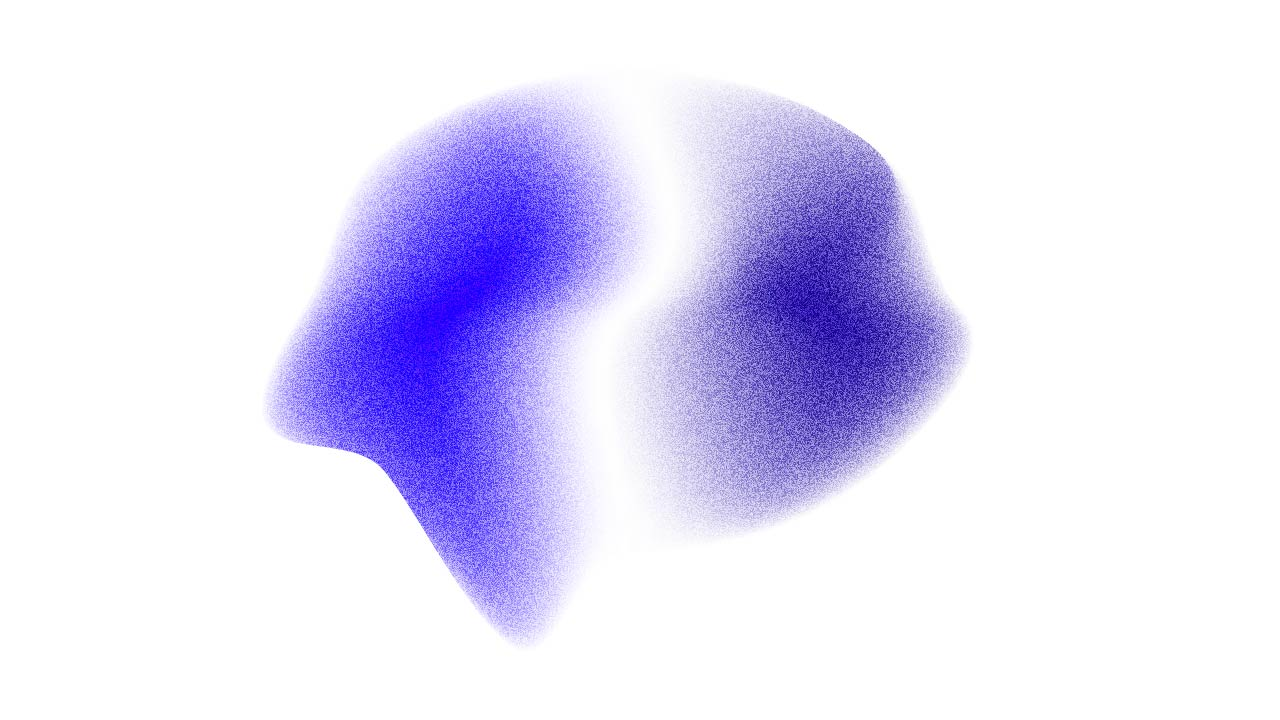
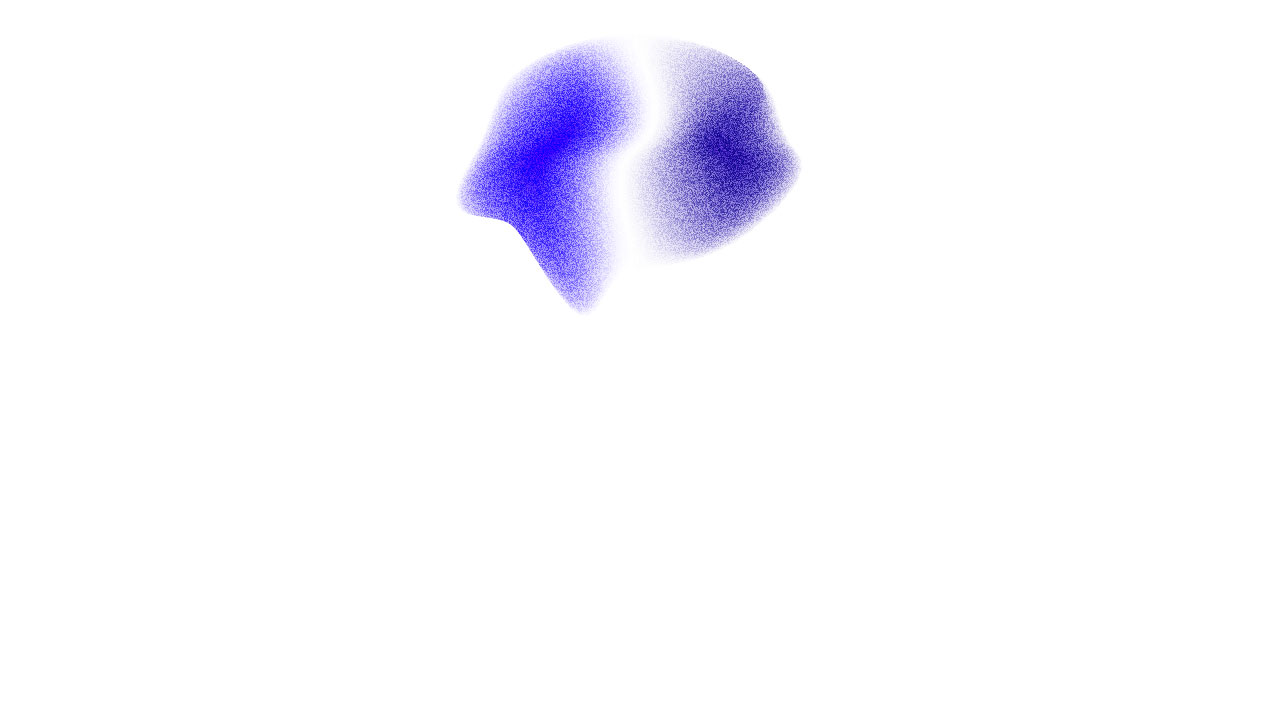
Create about.html - Add navbar and main image section - Modify some classes - Improve about background image

Changed region(s): [[0.1875, 0.0611, 0.7812, 0.8861]]

diff --git a/about.html b/about.html
@@ -1,0 +1,83 @@
+<!DOCTYPE html>
+<html lang="en">
+  <head>
+    <meta charset="UTF-8" />
+    <meta name="viewport" content="width=device-width, initial-scale=1.0" />
+
+    <link
+      href="https://cdn.jsdelivr.net/npm/bootstrap@5.3.3/dist/css/bootstrap.min.css"
+      rel="stylesheet"
+      integrity="sha384-QWTKZyjpPEjISv5WaRU9OFeRpok6YctnYmDr5pNlyT2bRjXh0JMhjY6hW+ALEwIH"
+      crossorigin="anonymous"
+    />
+
+    <link rel="preconnect" href="https://fonts.googleapis.com" />
+    <link rel="preconnect" href="https://fonts.gstatic.com" crossorigin />
+    <link href="https://fonts.googleapis.com/css2?family=Public+Sans:ital,wght@0,100..900;1,100..900&display=swap" rel="stylesheet" />
+    <link href="https://db.onlinewebfonts.com/c/0ec65ee35066f8dc1678fa73412ce9b8?family=Ogg+Text+TRIAL" rel="stylesheet" />
+    <link href="https://db.onlinewebfonts.com/c/2596224269750e00c3ad5356299a3b9f?family=Ogg+Roman" rel="stylesheet" />
+    <link rel="stylesheet" href="css/style.css" />
+
+    <script
+      src="https://cdn.jsdelivr.net/npm/bootstrap@5.3.3/dist/js/bootstrap.bundle.min.js"
+      integrity="sha384-YvpcrYf0tY3lHB60NNkmXc5s9fDVZLESaAA55NDzOxhy9GkcIdslK1eN7N6jIeHz"
+      crossorigin="anonymous"
+    ></script>
+
+    <link rel="icon" type="image/jpg" href="/images/favicon.png" />
+
+    <title>About me - Flora Persichini - Graphic & UX/UI Designer · Front-end Developer</title>
+  </head>
+  <body class="about-bg">
+    <nav class="navbar navbar-expand-lg navbar-light bg-white fixed-top fw-bold">
+      <div class="container-fluid">
+        <a class="navbar-brand ms-1 me-5" href="#">
+          <img src="images/flora logo-01.png" alt="flora-logo" class="flora-logo img-fluid" /> Flora Persichini</a
+        >
+        <button
+          class="navbar-toggler"
+          type="button"
+          data-bs-toggle="collapse"
+          data-bs-target="#navbarNavDropdown"
+          aria-controls="navbarNavDropdown"
+          aria-expanded="false"
+          aria-label="Toggle navigation"
+        >
+          <span class="navbar-toggler-icon"></span>
+        </button>
+        <div class="collapse navbar-collapse" id="navbarNavDropdown">
+          <ul class="navbar-nav ms-5">
+            <li class="nav-item me-3">
+              <a class="nav-link active text-decoration-underline" aria-current="page" href="/">HOME</a>
+            </li>
+            <li class="nav-item me-3">
+              <a class="nav-link" href="/about.html">ABOUT</a>
+            </li>
+            <li class="nav-item me-3">
+              <a class="nav-link" href="/contact.html">CONTACT</a>
+            </li>
+            <li class="nav-item dropdown me-5">
+              <a class="nav-link dropdown-toggle" href="#" id="navbarDropdownMenuLink" role="button" data-bs-toggle="dropdown" aria-expanded="false">
+                WORK
+              </a>
+              <ul class="dropdown-menu" aria-labelledby="navbarDropdownMenuLink">
+                <li><a class="dropdown-item" href="#">UX/UI</a></li>
+                <li><a class="dropdown-item" href="#">Development</a></li>
+                <li><a class="dropdown-item" href="#">Photography</a></li>
+              </ul>
+            </li>
+          </ul>
+        </div>
+      </div>
+    </nav>
+
+    <main>
+      <div class="header-about container">
+        <img src="images/flora-thumbnail-bw.png" alt="Flora Persichini Picture" class="flora-image-about" />
+        <div class="line-1-about"></div>
+        <h1 class="title-hi sans-serif-font text-center">About me.</h1>
+        <div class="line-2-about"></div>
+      </div>
+    </main>
+  </body>
+</html>

diff --git a/css/style.css b/css/style.css
@@ -13,14 +13,21 @@
   font-weight: 100;
 }
 
-body {
+.index-bg {
   background-image: url("/images/background.jpeg");
   background-size: cover;
-  background-position: center;
+  background-position: center 112px;
   background-repeat: no-repeat;
+  background-attachment: fixed;
   height: 100vh;
-  margin: 0;
-  background-position: 0 112px;
+}
+
+.about-bg {
+  background-image: url("/images/backgound-gradient-about.jpg");
+  background-position: center 100px;
+  background-repeat: no-repeat;
+  background-attachment: fixed;
+  height: 100vh;
 }
 
 .navbar {
@@ -31,12 +38,17 @@ body {
   width: 65px;
 }
 
-.header {
+.header-index {
   position: relative;
   top: 190px;
 }
 
-.flora-image {
+.header-about {
+  position: relative;
+  top: 170px;
+}
+
+.flora-image-index {
   display: block;
   margin: 0 auto;
   border: 3px solid black;
@@ -45,10 +57,26 @@ body {
   width: 280px;
 }
 
-.line-1 {
+.flora-image-about {
+  display: block;
+  margin: 0 auto;
+  border: 3px solid black;
+  border-radius: 200px;
+  padding: 4px;
+  width: 180px;
+}
+
+.line-1-index {
   margin: 0 auto 25px auto;
   width: 3px;
   height: 65px;
+  background-color: black;
+}
+
+.line-1-about {
+  margin: 0 auto 25px auto;
+  width: 3px;
+  height: 54px;
   background-color: black;
 }
 
@@ -74,14 +102,21 @@ h2 {
   margin-bottom: 41px;
 }
 
-.line-2 {
+.line-2-index {
   margin: 0 auto;
   width: 3px;
   height: 380px;
   background-color: black;
 }
 
-.line-3 {
+.line-2-about {
+  margin: 0 auto;
+  width: 3px;
+  height: 64px;
+  background-color: black;
+}
+
+.line-3-index {
   margin: 0 auto;
   position: relative;
   top: 12px;

diff --git a/index.html b/index.html
@@ -28,7 +28,7 @@
 
     <title>Flora Persichini - Graphic & UX/UI Designer · Front-end Developer</title>
   </head>
-  <body>
+  <body class="index-bg">
     <nav class="navbar navbar-expand-lg navbar-light bg-white fixed-top fw-bold">
       <div class="container-fluid">
         <a class="navbar-brand ms-1 me-5" href="#">
@@ -72,17 +72,17 @@
     </nav>
 
     <main>
-      <div class="header container">
-        <img src="images/flora-thumbnail-bw.png" alt="Flora Persichini Picture" class="flora-image" />
-        <div class="line-1"></div>
+      <div class="header-index container">
+        <img src="images/flora-thumbnail-bw.png" alt="Flora Persichini Picture" class="flora-image-index" />
+        <div class="line-1-index"></div>
         <h1 class="title-hi sans-serif-font text-center">Hi, I'm Flora.</h1>
         <h2 class="index-subtitle serif-font text-center">Graphic & UX/UI Designer · Front-end Developer</h2>
-        <div class="line-2"></div>
+        <div class="line-2-index"></div>
       </div>
 
       <div class="projects container">
         <h3 class="text-center">PROJECTS</h3>
-        <div class="line-3"></div>
+        <div class="line-3-index"></div>
         <div class="row breeze">
           <div class="d-none d-md-block col-md-6">
             <img src="/images/breeze-app.png" alt="Breeze Project Thumbnail" class="img-fluid rounded" />
